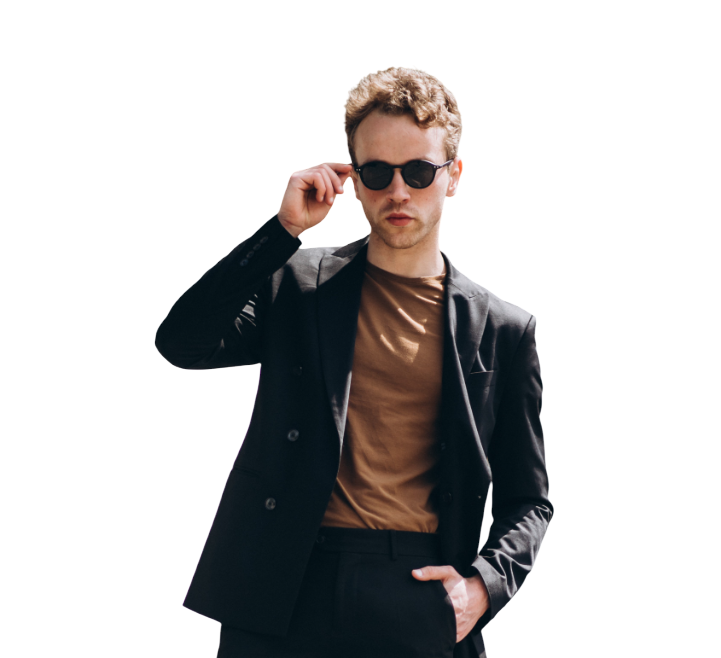
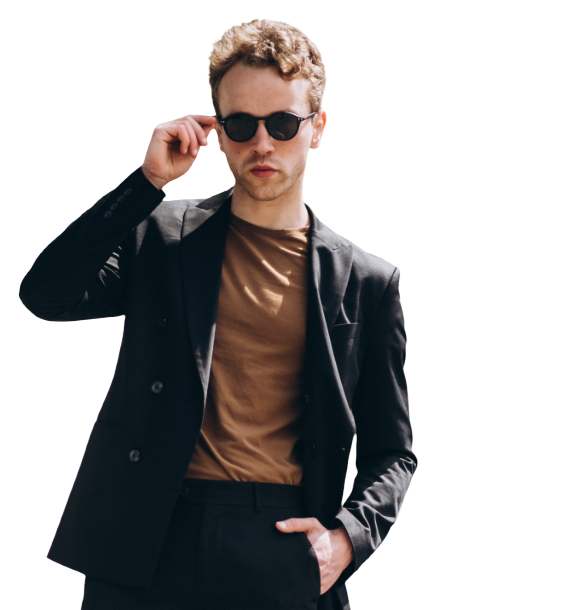
improving the responsiveness of og home page

diff --git a/frontend/src/components/Hero.jsx b/frontend/src/components/Hero.jsx
@@ -2,8 +2,9 @@ import React from "react";
 import { assets } from "../assets/assets";
 
 const Hero = () => {
+  
   return (
-    <div className="w-full h-[93vh] md:h-[91vh] flex items-center justify-center bg-gray-100 relative overflow-hidden">
+    <div className="w-full h-[92vh] md:h-[91vh] flex items-center justify-center bg-gray-100 relative overflow-hidden">
       {/* Green Background Circle (Properly Positioned & Bigger) */}
       <div className="absolute top-[40%] left-[55%] -translate-x-1/2 -translate-y-1/2 bg-green-200 rounded-full w-[480px] h-[480px] md:w-[550px] md:h-[550px]"></div>
 
@@ -13,36 +14,36 @@ const Hero = () => {
       <div className="  relative w-full h-full  px-8  flex flex-col sm:flex-row items-center justify-between ">
 
         {/* Text Section */}
-        <div className=" mt-48 sm:mt-0 w-1/2 sm:w-2/5 text-center md:text-left md:ml-28 z-5 ">
+        <div className=" mt-20 sm:mt-0  sm:w-2/5 text-center md:text-left md:ml-28 z-5 ">
           {/* Discount Badge */}
-          <div className="bg-black   text-white px-4 py-2 flex items-center justify-center rounded w-36 h-12 text-sm sm:text-md mx-auto md:ml-4 ">
+          <div className="bg-black  text-white px-4 py-2 flex items-center justify-center rounded w-36 h-12 text-sm sm:text-md mx-auto md:ml-4 ">
             <span className="text-xl sm:text-xxl">20%</span>
             <span className="text-base sm:text-lg ml-1">OFF</span>
           </div>
 
           {/* Main Heading */}
-          <h1 className="text-5xl sm:text-9xl font-medium text-gray-800 mt-2 sm:mt-2 lg:mt-3 leading-tight">
+          <h1 className="text-7xl sm:text-9xl font-medium text-gray-800 mt-2 sm:mt-2 lg:mt-3 leading-tight">
             Spring
           </h1>
 
           {/* Subheading */}
-          <h2 className="text-3xl sm:text-4xl font-medium text-gray-600 mt-3 pl-3">
+          <h2 className="text-4xl sm:text-5xl font-medium text-gray-600 mt-3 pl-3">
             Season Festival
           </h2>
 
           {/* Tagline */}
-          <p className="text-yellow-500  text-lg sm:text-xl mt-3 font-medium tracking-wide pl-3">
+          <p className="text-yellow-500  text-lg sm:text-xl mt-5 md:mt-3 font-medium tracking-wide pl-3">
             CATALOGUE 2025
           </p>
         </div>
 
 
         {/* Image Section */}
-        <div className=" w-1/2 sm:w-3/5 h-full flex justify-center items-end ">
+        <div className=" sm:w-3/5 h-full flex justify-center items-end sm:mt-20 sm:p-1">
           <img
             src={assets.hero_img}
             alt="Fashion Model"
-            className="w-full drop-shadow-lg"
+            className="w-fulldrop-shadow-lg"
           />
         </div>
 
